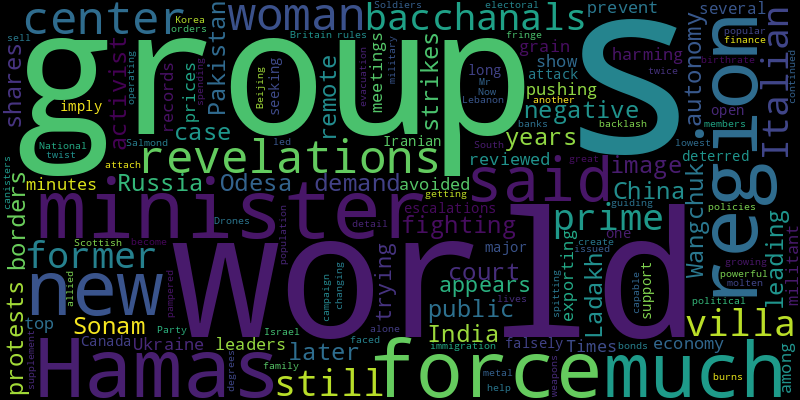
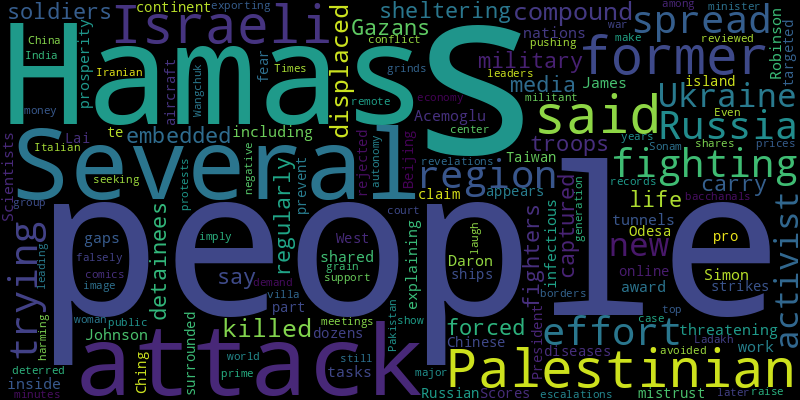
chore(bot): 🙏 auto commit

diff --git a/README.md b/README.md
@@ -2,41 +2,41 @@
 Auto RSS New York Times and Generate Word Cloud
 
 ## New York Times Global News
+* Several people were killed in the attack on the compound where displaced people were sheltering, Palestinian news media said. The Israeli military said Hamas fighters were embedded there.
+* Israeli soldiers and Palestinian former detainees say troops have regularly forced captured Gazans to carry out life-threatening tasks, including inside Hamas tunnels.
+* Daron Acemoglu, Simon Johnson and James Robinson shared the award for their work on explaining the gaps in prosperity between nations.
+* Scientists fighting the spread of infectious diseases on the continent have been targeted online by pro-Russian activists, part of an effort to spread fear and mistrust of the West.
+* Scores of Chinese aircraft and dozens of ships surrounded Taiwan, after President Lai Ching-te rejected Beijing’s claim over the island.
+* With the strikes in the Odesa region, Russia appears to be trying again to prevent Ukraine from exporting grain, harming its economy and pushing up world prices.
+* Even as the conflict with Russia grinds on, a new generation of comics in Ukraine is trying to make people laugh — and raise money for the war effort.
+* The Times reviewed the minutes of 10 meetings among Hamas’s top leaders. The records show the militant group avoided several escalations since 2021 to falsely imply it had been deterred — while seeking Iranian support for a major attack.
 * The woman at the center of revelations of bacchanals at the former Italian prime minister’s villa is still fighting a court case, and a negative public image, 14 years later.
 * The activist Sonam Wangchuk is leading protests to demand more autonomy for India’s remote Ladakh region, which shares borders with China and Pakistan.
-* With the strikes in the Odesa region, Russia appears to be trying again to prevent Ukraine from exporting grain, harming its economy and pushing up world prices.
-* The Times reviewed the minutes of 10 meetings among Hamas’s top leaders. The records show the militant group avoided several escalations since 2021 to falsely imply it had been deterred — while seeking Iranian support for a major attack.
-* Canada has long had one of the world’s most open immigration policies. Now, faced with a growing popular backlash, it’s changing the rules.
-* Mr. Salmond led the Scottish National Party twice, guiding it from a fringe political group into a powerful electoral force in Britain.
-* They have become pampered family members in South Korea, which has the world’s lowest birthrate and where much of the population lives alone.
-* Drones are getting another new twist: Soldiers attach canisters to them to create weapons capable of spitting out molten metal that burns at 4,400 degrees.
-* Israel’s military said it was “operating with great force” against Hamas and allied groups and issued new evacuation orders, as it also continued its campaign in Lebanon.
-* The finance minister said Beijing would sell bonds to supplement spending and help banks but did not detail how much.
 
 ![Global](./global.png)
 ## New York Times United States News
-* Alarmed by abortion and transgender rights, Christian activists are invoking the Old Testament story of Esther, the Jewish orphan who bravely saved her people.
 * The storm made landfall Wednesday evening, devastating an area still recovering from Hurricane Helene, which tore through Florida’s western coast two weeks ago.
-* The suit had accused the three women of wrongful death. It was part of a heated battle over the use of such pills in states with abortion bans.
-* A commission denied a request to increase the number of rocket launches on the state’s central coast, citing environmental concerns.
-* Helene in North Carolina and Milton in Florida were very different storms in very different places.
-* Latino voters said they were open to Donald J. Trump’s immigration policies and hungry for change. Many remain undecided.
-* The California prison used to house some of the state’s most violent criminals, but has become more known lately for creative pursuits.
-* As California’s attorney general, Kamala Harris prioritized the fight against traffickers of drugs and people. It’s a part of her biography she hasn’t always talked about.
+* Weather experts say the spiraling falsehoods, especially claims that the government is creating or controlling storms, have gotten out of hand.
 * It is a reanimation story strange enough for a zombie movie, made possible by the fact that the original George trademark lapsed, only to be secured by a conservative lawyer.
-* The former president took a detour from the battleground states to hold a rally in the California desert, where temperatures hovered near 100 degrees.
+* The suit had accused the three women of wrongful death. It was part of a heated battle over the use of such pills in states with abortion bans.
+* The state’s legislative Black caucus have asked the attorney general and a county prosecutor to investigate Tom Barrett’s congressional campaign for potential voter disenfranchisement.
+* Defections from Black and Latino voters are making Kamala Harris more dependent on white, suburban voters — and complicating her path to victory.
+* The proposals include a new loan program and affordable banking options for entrepreneurs, apprenticeship and mentorship programs and expanded health screenings, too.
+* Conducting a poll isn’t an exact science. The process is susceptible to lots of common problems and baked-in biases — more than just the “margin of error.”
+* Mecklenburg County leans liberal but has broken Democrats’ hearts in past elections with low voter turnout. A new party leader wants to change that.
+* When the former president endorses violence and proposes using the government to attack his enemies, many of his supporters assume it’s just an act.
 
 ![US](./usnews.png)
 ## New York Times Asia News
+* Angry at what they view as China’s state-led xenophobia, taught in schools and prevalent online, some people are taking action, even at personal risk.
+* Assurances from government officials on plans to strengthen the private sector offset a lack of specifics about economic stimulus.
+* Scores of Chinese aircraft and dozens of ships surrounded Taiwan, after President Lai Ching-te rejected Beijing’s claim over the island.
+* Plus, 200,000 stories of Modern Love.
 * Japan has been trying to boost its fertility rate for 30 years. Now the rest of the rich world is, too.
 * The activist Sonam Wangchuk is leading protests to demand more autonomy for India’s remote Ladakh region, which shares borders with China and Pakistan.
 * When Sandy Irvine went on a pioneering expedition to Mount Everest’s summit in 1924, he and his partner vanished. The recent discovery may shed light on the ill-fated adventure.
 * “Whenever I get inspiration or feel something,” the “Pachinko” star said, “I go to my Notes app and write it down.”
 * They have become pampered family members in South Korea, which has the world’s lowest birthrate and where much of the population lives alone.
 * The finance minister said Beijing would sell bonds to supplement spending and help banks but did not detail how much.
-* Toshiyuki Mimaki, the chairman of Nihon Hidankyo, which was awarded the Nobel Peace Prize, said his foremost wish was to “please abolish nuclear weapons while we are alive.”
-* Pyongyang threatened military action if the provocations continued, while the South advised its angry neighbor not to act “rashly.”
-* Many survivors of the Hiroshima and Nagasaki attacks have dedicated their lives to campaigning for nuclear disarmament. Their mission has grown more urgent as the number of living witnesses to the bombings has dwindled.
-* Those who lived through the nuclear attacks of 1945 have dedicated their lives to recounting their experiences of loss and the physical and emotional toll.
 
 ![Asian](./asian.png)

diff --git a/archive/2024-10-13.md b/archive/2024-10-13.md
@@ -1,0 +1,42 @@
+# NewsArchive
+Auto RSS New York Times and Generate Word Cloud
+
+## New York Times Global News
+* The woman at the center of revelations of bacchanals at the former Italian prime minister’s villa is still fighting a court case, and a negative public image, 14 years later.
+* The activist Sonam Wangchuk is leading protests to demand more autonomy for India’s remote Ladakh region, which shares borders with China and Pakistan.
+* With the strikes in the Odesa region, Russia appears to be trying again to prevent Ukraine from exporting grain, harming its economy and pushing up world prices.
+* The Times reviewed the minutes of 10 meetings among Hamas’s top leaders. The records show the militant group avoided several escalations since 2021 to falsely imply it had been deterred — while seeking Iranian support for a major attack.
+* Canada has long had one of the world’s most open immigration policies. Now, faced with a growing popular backlash, it’s changing the rules.
+* Mr. Salmond led the Scottish National Party twice, guiding it from a fringe political group into a powerful electoral force in Britain.
+* They have become pampered family members in South Korea, which has the world’s lowest birthrate and where much of the population lives alone.
+* Drones are getting another new twist: Soldiers attach canisters to them to create weapons capable of spitting out molten metal that burns at 4,400 degrees.
+* Israel’s military said it was “operating with great force” against Hamas and allied groups and issued new evacuation orders, as it also continued its campaign in Lebanon.
+* The finance minister said Beijing would sell bonds to supplement spending and help banks but did not detail how much.
+
+![Global](./global.png)
+## New York Times United States News
+* Alarmed by abortion and transgender rights, Christian activists are invoking the Old Testament story of Esther, the Jewish orphan who bravely saved her people.
+* The storm made landfall Wednesday evening, devastating an area still recovering from Hurricane Helene, which tore through Florida’s western coast two weeks ago.
+* The suit had accused the three women of wrongful death. It was part of a heated battle over the use of such pills in states with abortion bans.
+* A commission denied a request to increase the number of rocket launches on the state’s central coast, citing environmental concerns.
+* Helene in North Carolina and Milton in Florida were very different storms in very different places.
+* Latino voters said they were open to Donald J. Trump’s immigration policies and hungry for change. Many remain undecided.
+* The California prison used to house some of the state’s most violent criminals, but has become more known lately for creative pursuits.
+* As California’s attorney general, Kamala Harris prioritized the fight against traffickers of drugs and people. It’s a part of her biography she hasn’t always talked about.
+* It is a reanimation story strange enough for a zombie movie, made possible by the fact that the original George trademark lapsed, only to be secured by a conservative lawyer.
+* The former president took a detour from the battleground states to hold a rally in the California desert, where temperatures hovered near 100 degrees.
+
+![US](./usnews.png)
+## New York Times Asia News
+* Japan has been trying to boost its fertility rate for 30 years. Now the rest of the rich world is, too.
+* The activist Sonam Wangchuk is leading protests to demand more autonomy for India’s remote Ladakh region, which shares borders with China and Pakistan.
+* When Sandy Irvine went on a pioneering expedition to Mount Everest’s summit in 1924, he and his partner vanished. The recent discovery may shed light on the ill-fated adventure.
+* “Whenever I get inspiration or feel something,” the “Pachinko” star said, “I go to my Notes app and write it down.”
+* They have become pampered family members in South Korea, which has the world’s lowest birthrate and where much of the population lives alone.
+* The finance minister said Beijing would sell bonds to supplement spending and help banks but did not detail how much.
+* Toshiyuki Mimaki, the chairman of Nihon Hidankyo, which was awarded the Nobel Peace Prize, said his foremost wish was to “please abolish nuclear weapons while we are alive.”
+* Pyongyang threatened military action if the provocations continued, while the South advised its angry neighbor not to act “rashly.”
+* Many survivors of the Hiroshima and Nagasaki attacks have dedicated their lives to campaigning for nuclear disarmament. Their mission has grown more urgent as the number of living witnesses to the bombings has dwindled.
+* Those who lived through the nuclear attacks of 1945 have dedicated their lives to recounting their experiences of loss and the physical and emotional toll.
+
+![Asian](./asian.png)
